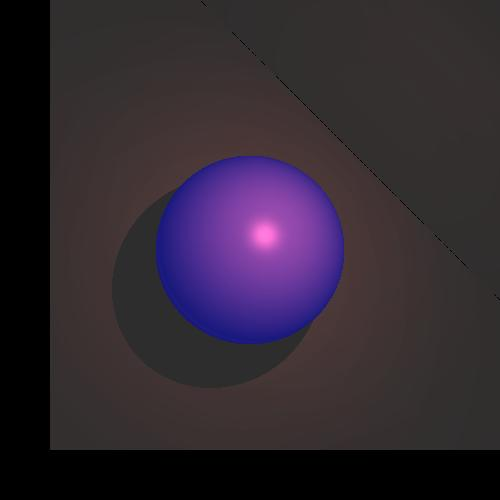
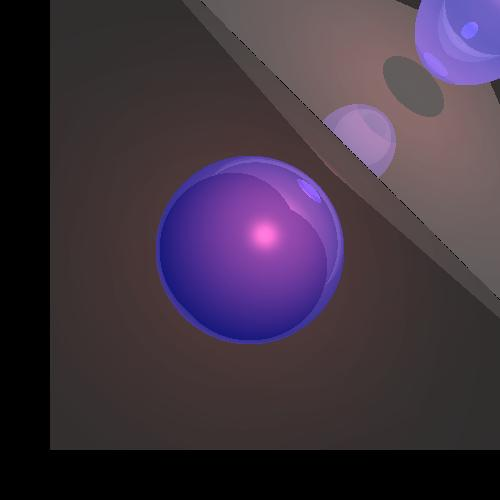
עד

Changed region(s): [[0.39, 0.0, 1.0, 0.63], [0.24, 0.3, 0.69, 0.78]]

diff --git a/src/run.java b/src/run.java
@@ -1,0 +1,314 @@
+/**
+ * Created by shalom on 25/06/2017.
+ */
+
+import Elements.*;
+import geometries.Geometry;
+import geometries.Plane;
+import geometries.Sphere;
+import geometries.Triangle;
+import javafx.application.Application;
+import javafx.stage.Stage;
+import org.junit.Test;
+import primitives.*;
+import primitives.Vector;
+import renderer.ImageWriter;
+import renderer.Render;
+import scene.Scene;
+
+import java.util.Collection;
+import java.io.*;
+import java.awt.*;
+import java.util.*;
+
+public class run extends Application {
+
+    public static void main(String[] args) {
+        launch(args);
+    }
+
+    @Override
+    public void start(Stage primaryStage) throws Exception {
+
+        System.out.println("for hourse test press 1\n" +
+                "for shdow test press 2\n" +
+                "for recursive test print 3 \n" +
+        "for exit press 4");
+Scanner s;
+
+int r , g ,b , Angle , t = 0,  _switch;
+ double itensity;
+        while (t != 4) {
+    s = new Scanner(System.in);
+    _switch = s.nextInt();
+            System.out.println("enter file name:");
+            String file_name;
+            file_name = s.next();
+            System.out.println("enter RGB Colors:");
+            r = s.nextInt();
+            g = s.nextInt();
+            b = s.nextInt();
+            System.out.println("enter Angle Color:");
+            Angle = s.nextInt();
+            System.out.println("enter itensity Color number between 0-100:");
+            itensity = s.nextDouble();
+            itensity /= 100;
+
+
+            int lighttemp;
+            Light ligt;
+            lighttemp = s.nextInt();
+            switch (lighttemp) {
+                case 1: ligt = new DirectionalLight(new Color(r,g,b),new Vector(new Point3D(Math.sin(Angle),Math.cos(Angle),-500))) ;
+                    break;
+                case 2: ligt = new PointLight(new Color(r,g,b),new Vector(new Point3D(Math.sin(Angle),Math.cos(Angle),-500)));
+                    break;
+                case 3: ligt = new SpotLight(new Color(r,g,b),new Point3D(Math.sin(Angle),Math.cos(Angle),-500));
+                    break;
+            }
+
+
+
+switch (_switch) {
+    case 1:
+
+        System.out.println(1);
+        Scene scene = new Scene();
+        scene.set_backGround(new Color(255,255,255));
+        scene.set_screenDistance(48.5);
+
+        Geometry[] shapes = {
+
+                new Triangle(new Point3D(0, 0, -49),new Point3D(-14, -14, -49),new Point3D(-23, -3, -49)),
+                new Triangle(new Point3D(0, 0, -49),new Point3D(14, -14, -49),new Point3D(23, -3, -49)),
+
+                new Triangle(new Point3D(0, 0, -49),new Point3D(-30, -5, -49),new Point3D(-13, 13,-49)),
+                new Triangle(new Point3D(0, 0, -49),new Point3D(30, -5, -49),new Point3D(13, 13, -49)),
+
+                new Triangle(new Point3D(0, 0, -49),new Point3D(-7, 13, -49),new Point3D(7, 13, -49)),
+
+                new Triangle(new Point3D(-7, 13, -49),new Point3D(7, 13, -49),new Point3D(2, 61, -49)),
+
+                new Triangle(new Point3D(0, 0, -49),new Point3D(-14, -14, -49),new Point3D(14, -14, -49)),
+                // 7
+                new Triangle(new Point3D(-14, -14, -49),new Point3D(14, -14, -49),new Point3D(-10, -34, -49)),
+                new Triangle(new Point3D(-10, -34, -49),new Point3D(14, -14, -49),new Point3D(14, -34, -49)),
+                //9
+                new Triangle(new Point3D(14, -34, -49),new Point3D(-10, -34, -49),new Point3D(2, -59, -49)),
+                //
+                new Triangle(new Point3D(2, -59, -49),new Point3D(20, -83, -49),new Point3D(21, -88, -49)),
+                new Triangle(new Point3D(2, -59, -49),new Point3D(-20, -83, -49),new Point3D(-21, -88, -49)),
+                //12
+
+                new Triangle(new Point3D(-10, -34, -49),new Point3D(-14, -14, -49),new Point3D(-32, -83, -49)),
+                new Triangle(new Point3D(10, -34, -49),new Point3D(14, -14, -49),new Point3D(32, -83, -49)),
+
+                //unclear triangle
+                new Triangle(new Point3D(-14, -34, -49),new Point3D(-18, -22, -49),new Point3D(-36, -83,-49)),
+                new Triangle(new Point3D(14, -34, -49),new Point3D(18, -22, -49),new Point3D(36, -83,-49)),
+
+                new Triangle(new Point3D(-14, -14, -49),new Point3D(-32, -83, -49),new Point3D(-54, -38, -49)),
+                new Triangle(new Point3D(14, -14, -49),new Point3D(32, -83, -49),new Point3D(54, -38, -49)),
+
+                new Triangle(new Point3D(-54, -38, -49),new Point3D(-32, -83, -49),new Point3D(-74, -96, -49)),
+                new Triangle(new Point3D(54, -38, -49),new Point3D(32, -83, -49),new Point3D(74, -96, -49)),
+
+                new Triangle(new Point3D(-74, -96, -49),new Point3D(-32, -83, -49),new Point3D(-103, -121, -49)),
+                new Triangle(new Point3D(74, -96, -49),new Point3D(32, -83, -49),new Point3D(103, -121, -49)),
+
+                new Triangle(new Point3D(-74, -96, -49),new Point3D(-103, -121, -49),new Point3D(-150, -124, -49)),
+                new Triangle(new Point3D(74, -96, -49),new Point3D(103, -121, -49),new Point3D(150, -124, -49)),
+
+                new Triangle(new Point3D(-150, -124, -49),new Point3D(-74, -96, -49),new Point3D(-126, -95, -49)),
+                new Triangle(new Point3D(150, -124, -49),new Point3D(74, -96, -49),new Point3D(126, -95, -49)),
+
+                // 19*/
+
+                new Triangle(new Point3D(-74, -96, -49),new Point3D(-54, -38, -49),new Point3D(-103, -35, -49)),
+                new Triangle(new Point3D(74, -96, -49),new Point3D(54, -38, -49),new Point3D(103, -35, -49)),
+
+                new Triangle(new Point3D(-74, -96, -49), new Point3D(-103, -35, -49),new Point3D(-126, -95, -49)),
+                new Triangle(new Point3D(74, -96, -49), new Point3D(103, -35, -49),new Point3D(126, -95, -49)),
+
+                new Triangle(new Point3D(-126, -95, -49),new Point3D(-150, -124, -49),new Point3D(-162, -68, -49)),
+                new Triangle(new Point3D(126, -95, -49),new Point3D(150, -124, -49),new Point3D(162, -68, -49)),
+
+                //22
+
+                new Triangle(new Point3D(-162, -68, -49),new Point3D(-126, -95, -49),new Point3D(-130, -21, -49)),
+                new Triangle(new Point3D(162, -68, -49),new Point3D(126, -95, -49),new Point3D(130, -21, -49)),
+
+                new Triangle(new Point3D(-126, -95, -49),new Point3D(-130, -21, -49),new Point3D(-103, -35, -49)),
+                new Triangle(new Point3D(126, -95, -49),new Point3D(130, -21, -49),new Point3D(103, -35, -49)),
+
+
+                new Triangle(new Point3D(-130, -21, -49),new Point3D(-103, -35, -49),new Point3D(-96, -2, -49)),
+                new Triangle(new Point3D(130, -21, -49),new Point3D(103, -35, -49),new Point3D(96, -2, -49)),
+
+
+                new Triangle(new Point3D(-96, -2, -49),new Point3D(-103, -35, -49),new Point3D(-54, -38,-49)),
+                new Triangle(new Point3D(96, -2, -49),new Point3D(103, -35, -49),new Point3D(54, -38,-49)),
+
+                new Triangle(new Point3D(-54, -38, -49),new Point3D(-14, -14, -49),new Point3D(-23, -3, -49)),
+                new Triangle(new Point3D(54, -38, -49),new Point3D(14, -14, -49),new Point3D(23, -3, -49)),
+
+
+                new Triangle(new Point3D(-96, -2, -49),new Point3D(-54, -38, -49),new Point3D(-23, -3, -49)),
+                new Triangle(new Point3D(96, -2, -49),new Point3D(54, -38, -49),new Point3D(23, -3, -49)),
+
+                new Triangle(new Point3D(-96, -2, -49),new Point3D(-23, -3, -49),new Point3D(-105, 48, -49)),
+                new Triangle(new Point3D(96, -2, -49),new Point3D(23, -3, -49),new Point3D(105, 48, -49)),
+
+                new Triangle(new Point3D(-23, -3, -49),new Point3D(-105, 48, -49),new Point3D(-54, 38, -49)),
+                new Triangle(new Point3D(23, -3, -49),new Point3D(105, 48, -49),new Point3D(54, 38, -49)),
+
+                new Triangle(new Point3D(-54, 38, -49),new Point3D(-23, -3, -49),new Point3D(-7, 13, -49)),
+                new Triangle(new Point3D(54, 38, -49),new Point3D(23, -3, -49),new Point3D(7, 13, -49)),
+
+                // 31
+
+                new Triangle(new Point3D(-96, -2, -49),new Point3D(-105, 48, -49),new Point3D(-123, 34, -49)),
+                new Triangle(new Point3D(96, -2, -49),new Point3D(105, 48, -49),new Point3D(123, 34, -49)),
+
+                new Triangle(new Point3D(-7, 13, -49),new Point3D(-54, 38, -49),new Point3D(-42, 93, -49)),
+                new Triangle(new Point3D(7, 13, -49),new Point3D(54, 38, -49),new Point3D(42, 93, -49)),
+
+                new Triangle(new Point3D(-42, 93, -49),new Point3D(-54, 38, -49),new Point3D(-105, 48, -49)),
+                new Triangle(new Point3D(42, 93, -49),new Point3D(54, 38, -49),new Point3D(105, 48, -49)),
+
+                new Triangle(new Point3D(-105, 48, -49),new Point3D(-42, 93, -49),new Point3D(-93, 109, -49)),
+                new Triangle(new Point3D(105, 48, -49),new Point3D(42, 93, -49),new Point3D(93, 109, -49)),
+
+                new Triangle(new Point3D(-42, 93, -49),new Point3D(-93, 109, -49),new Point3D(-58, 124, -49)),
+                new Triangle(new Point3D(42, 93, -49),new Point3D(93, 109, -49),new Point3D(58, 124, -49)),
+
+                new Triangle(new Point3D(-58, 124, -49),new Point3D(-93, 109, -49),new Point3D(-92, 140, -49)),
+                new Triangle(new Point3D(58, 124, -49),new Point3D(93, 109, -49),new Point3D(92, 140, -49)),
+
+                new Triangle(new Point3D(-93, 109, -49),new Point3D(-105, 48, -49),new Point3D(-123, 34, -49)),
+                new Triangle(new Point3D(93, 109, -49),new Point3D(105, 48, -49),new Point3D(123, 34, -49))
+
+                //38
+                /*
+                new Triangle(new Point3D(282, 0, -49),new Point3D(346, 55, -49),new Point3D(359, 53, -49)),
+                new Triangle(new Point3D(282, 0, -49),new Point3D(346, -59, -49),new Point3D(359, -58, -49)),
+                new Triangle(new Point3D(340, -105, -49),new Point3D(224, 38, -49),new Point3D(190, -50, -49)),
+
+                new Triangle(new Point3D(10, 10, -49),new Point3D(-10, 10, -49),new Point3D(0, 0, -49))
+// triangle 16*/
+
+        };
+
+        Color [] colors = {
+                new Color(0,0,255),
+                new Color(0,100,250),
+                new Color(0,175,250),
+                new Color(0,150,250),
+                new Color(0,200,250),
+                new Color(0,255,255),
+                new Color(0,255,200),
+                new Color(0,255,100),
+                new Color(100,255,100),
+                new Color(0,100,150),
+                new Color(0,150,170),
+                new Color(0,255,0),
+                new Color(0,100,0),
+                new Color(29,78,0),
+                new Color(50,100,50),
+                new Color(100,255,0),
+                new Color(150,150,0),
+                new Color(255,250,0),
+                new Color(100,100,0),
+                new Color(255,150,0),
+                new Color(255,70,70),
+                new Color(255,0,234),
+                new Color(255,145,245),
+                new Color(255,0,0),
+                new Color(255,150,100),
+                new Color(255,100,0),
+                new Color(255,0,100),
+                new Color(255,100,0),
+                new Color(255,0,0),
+                new Color(255,45,123),
+                new Color(255,150,0),
+                new Color(255,150,0),
+                new Color(255,200,0),
+                new Color(255,0,255),
+                new Color(255,189,9),
+                new Color(255,180,100),
+                new Color(225,80,80)
+
+
+        };
+
+        // x = 650 - x (picture)
+        // y = y (picture) - 650
+        for (int i = 0; i < shapes.length; i++)
+        {
+            shapes[i].set_emmission(colors[i/2]);
+            scene.addGeometry(shapes[i]);
+        }
+        scene.set_ambientLight(new AmbientLight(scene.get_ambientLight().get_color(), itensity));
+        ImageWriter imageWriter = new ImageWriter(file_name, 500, 500, 500, 500);
+        Render renderer = new Render(scene, imageWriter);
+        renderer.renderImage();
+        renderer.writeToImage();
+        break;
+    case 2:
+        Scene scene2 = new Scene(null, new Color(0,0,0), new AmbientLight(255,255,255), new Camera(), 250,null);
+        scene2.set_ambientLight(new AmbientLight(scene2.get_ambientLight().get_color(), itensity));
+        ImageWriter imageWriter2 = new ImageWriter(file_name, 500, 500, 500, 500);
+        Plane plane = new Plane(new Vector(0,0,1), new Point3D(0,0,-520));
+        plane.set_nShininess(200);
+        Sphere sph1 = new Sphere(120, new Point3D(0,0,-400));
+        PointLight pointLight = new PointLight(new Color(255,50,50), new Point3D(200,-50,-20), 0.000005, 0.000005, 0.000006);
+        sph1.set_nShininess(35);
+        sph1.set_emmission(new Color(17,15,116));
+        scene2.addGeometry(plane);
+        scene2.addGeometry(sph1);
+        scene2.addLight(pointLight);
+        Render renderer2 = new Render(scene2, imageWriter2);
+        renderer2.renderImage();
+        renderer2.writeToImage();
+        System.out.println(2);
+        break;
+
+
+
+
+
+    case 3:
+        System.out.println("test recursive test now runing");
+        Scene scene3 = new Scene();
+        scene3.set_screenDistance(300);
+        Sphere sphere = new Sphere(500, new Point3D(0.0, 0.0, -1000)) ;
+        sphere.set_nShininess(20);
+        sphere.set_emmission(new Color(0, 0, 100));
+        sphere.setKt(0.5);
+        scene3.addGeometry(sphere);
+
+        Sphere sphere2 = new Sphere(250, new Point3D(0.0, 0.0, -1000));
+        sphere2.set_nShininess(20);
+        sphere2.set_emmission(new Color(100, 20, 20));
+        sphere2.setKt(0);
+        scene3.addGeometry(sphere2);
+
+        scene3.addLight(new SpotLight(new Color(255, 100, 100), new Point3D(-200, -200, -150),
+                new primitives.Vector(2, 2, -3), 0.1, 0.00001, 0.000005));
+        scene3.set_ambientLight(new AmbientLight(scene3.get_ambientLight().get_color(), itensity));
+        ImageWriter imageWriter3 = new ImageWriter(file_name, 500, 500, 500, 500);
+
+        Render renderer3 = new Render(scene3, imageWriter3);
+        renderer3.renderImage();
+        renderer3.writeToImage();
+        break;
+    case 4:
+        System.out.println("the progrem is ended");
+        return;
+    // act 1   break;  default:   // act2   break;
+}
+
+}
+return;
+    }
+}

diff --git a/src/renderer/Render.java b/src/renderer/Render.java
@@ -250,8 +250,6 @@ public class Render implements Comparable<Render> {
         }
         Color reflectedLight = new Color(reflectR, reflectG, reflectB);
 
-
-
         int refractedR = 0;
         int refractedG = 0;
         int refractedB = 0;
@@ -269,12 +267,8 @@ public class Render implements Comparable<Render> {
                 refractedB += (int) (kt * refractedColor.getBlue());
             }
         }
+
         Color refractedLight = new Color(refractedR, refractedG, refractedB);
-
-
-
-
-
 
         finalR =Math.min(255, _scene.get_ambientLight().getIntensity().getRed() + geometry.get_emmission().getRed() + difuseR + specularR + reflectedLight.getRed() + refractedLight.getRed());
         finalG =Math.min(255, _scene.get_ambientLight().getIntensity().getGreen() + geometry.get_emmission().getGreen() + difuseG + specularG + reflectedLight.getGreen() + refractedLight.getGreen());
